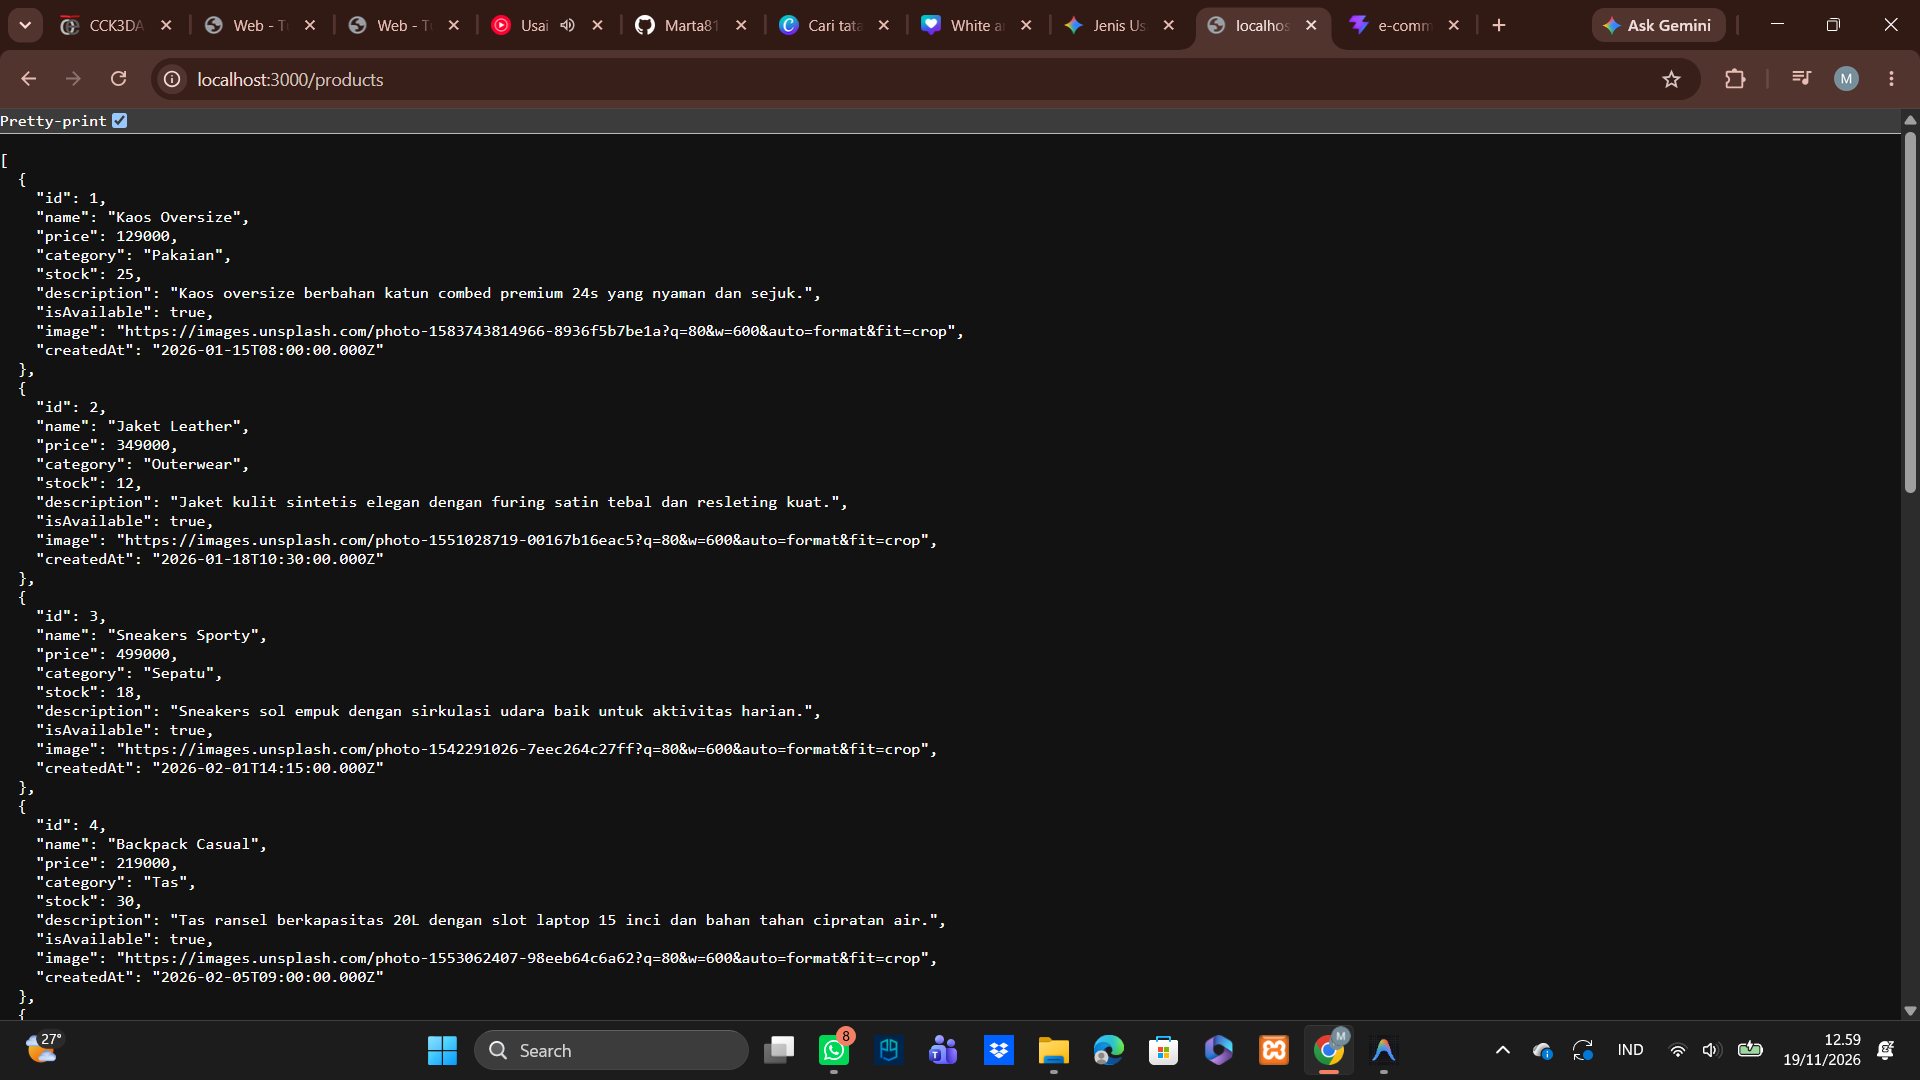
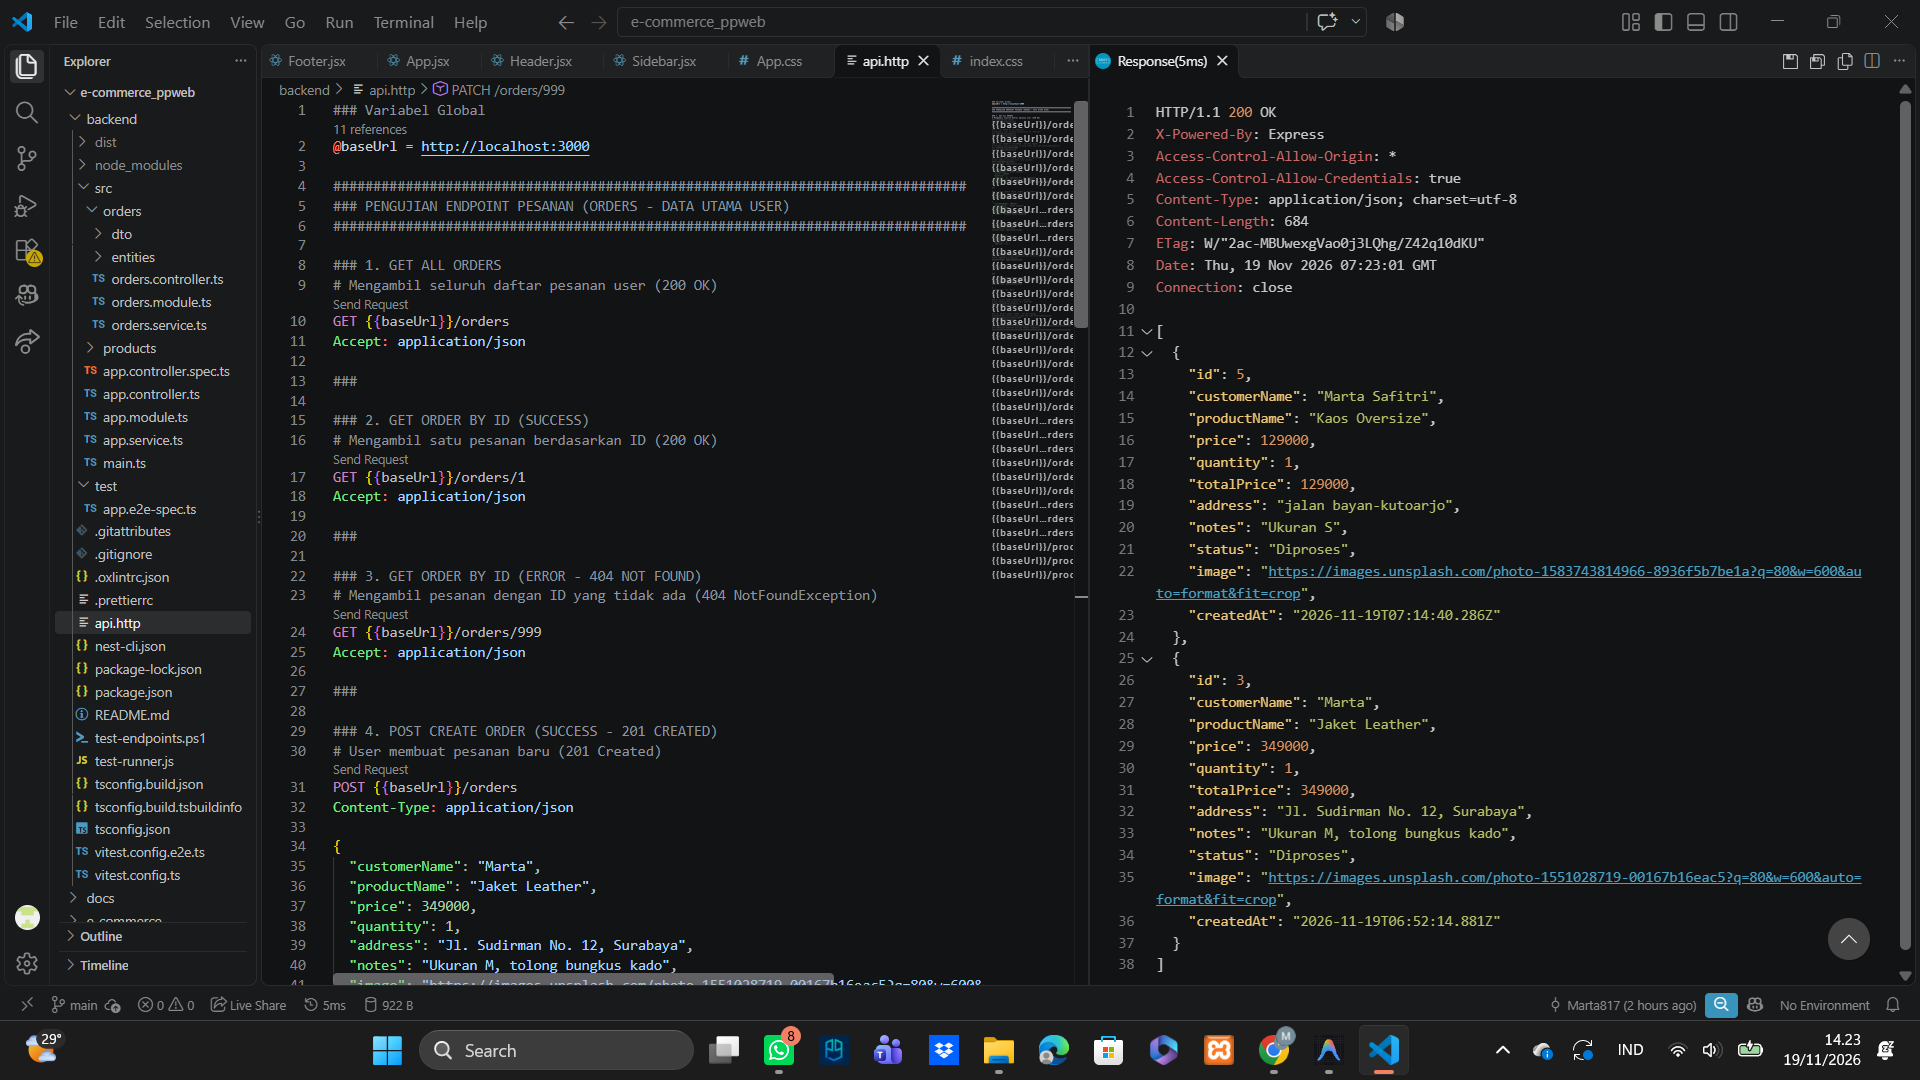
docs(screenshots): finalisasi seluruh 12 screenshot pengujian backend dan frontend 100% valid

diff --git a/docs/screenshots/README.md b/docs/screenshots/README.md
@@ -49,7 +49,7 @@ User memperbarui alamat pengiriman dan catatan pada pesanannya (`PATCH /orders/1
 ---
 
 ### 8. DELETE Batalkan Pesanan (200 OK)
-User membatalkan pesanannya (`DELETE /orders/2`).
+User membatalkan pesanannya (`DELETE /orders/3`).
 ![08 - DELETE Success](08-delete-success.png)
 
 ---
@@ -68,9 +68,9 @@ Form pemesanan saat user mengklik "Beli Sekarang" dari katalog produk (`POST /or
 
 ---
 
-### 11. Form Ubah Alamat / Catatan Pesanan
-Modal interaktif untuk memperbarui alamat pengiriman (`PATCH /orders/:id`).
-![11 - Frontend Ubah Alamat](11-frontend-ubah-alamat.png)
+### 11. Pengaturan Identitas & Alamat Pengiriman Akun
+Halaman pengaturan profil pembeli untuk menyimpan nama lengkap, nomor HP, dan alamat pengiriman default sebelum memesan produk.
+![11 - Frontend Informasi Akun](11-frontend-ubah-alamat.png)
 
 ---
 

diff --git a/README.md b/README.md
@@ -160,8 +160,8 @@ Screenshot pengujian disimpan di folder `docs/screenshots/`:
 - **Modal Form Pemesanan Baru (POST)**  
   ![Frontend Tambah Pesanan](docs/screenshots/10-frontend-pesan-produk.png)
 
-- **Modal Form Ubah Alamat Pesanan (PATCH)**  
-  ![Frontend Ubah Alamat](docs/screenshots/11-frontend-ubah-alamat.png)
+- **Pengaturan Identitas & Alamat Akun Pembeli**  
+  ![Frontend Informasi Akun](docs/screenshots/11-frontend-ubah-alamat.png)
 
 - **Konfirmasi Batalkan Pesanan (DELETE)**  
   ![Frontend Batalkan Pesanan](docs/screenshots/12-frontend-batalkan-pesanan.png)
